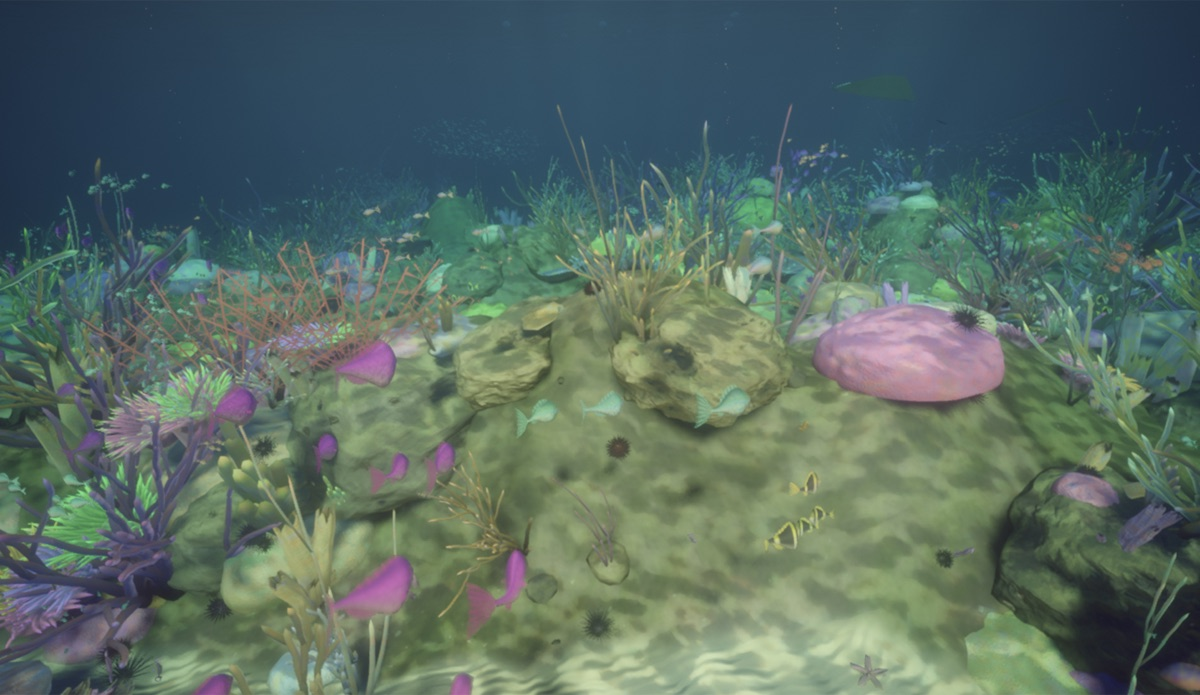
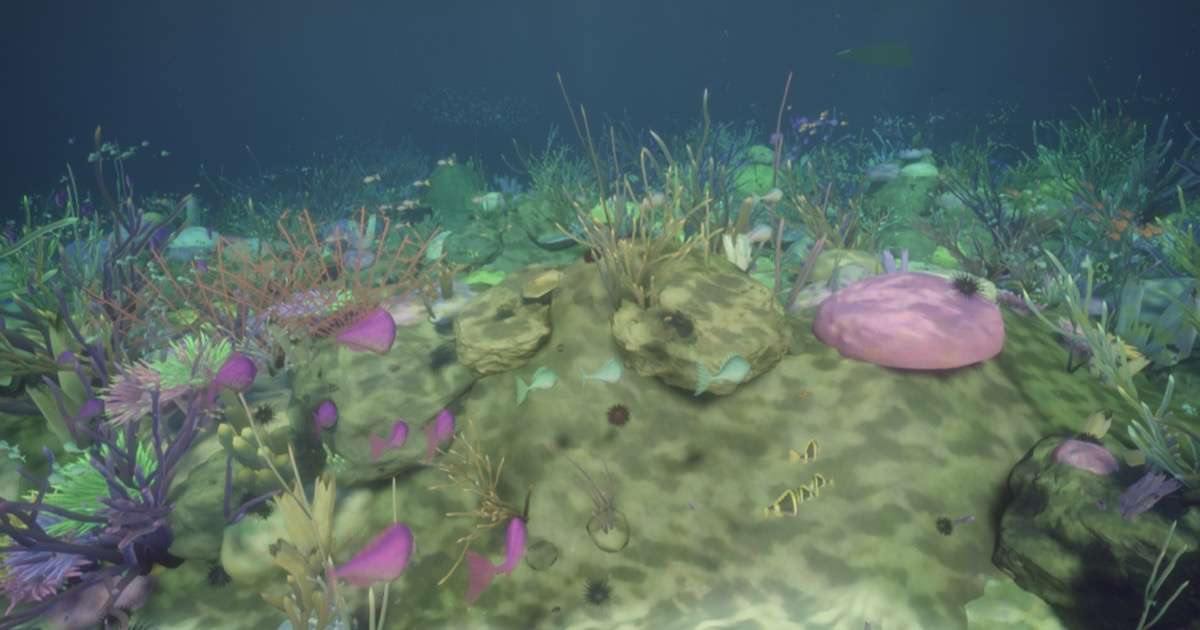
Preview image at the 1200x630 size Google and other unfurlers expect (was 1200x695); 150 KB, well under the 1 MB limit where previews start to time out

Changed region(s): [[0.0, 0.5127, 1.0, 1.0], [0.0, 0.1508, 1.0, 0.4825], [0.7092, 0.6333, 0.74, 0.6635]]

diff --git a/index.html b/index.html
@@ -33,7 +33,7 @@
     />
     <meta property="og:image:type" content="image/jpeg" />
     <meta property="og:image:width" content="1200" />
-    <meta property="og:image:height" content="695" />
+    <meta property="og:image:height" content="630" />
     <meta
       property="og:image:alt"
       content="An underwater reef: a rocky rise covered in pink, purple and green coral, sea urchins, anemones and small fish, with caustics playing over the sand and deep blue water behind."
